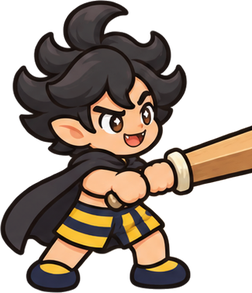
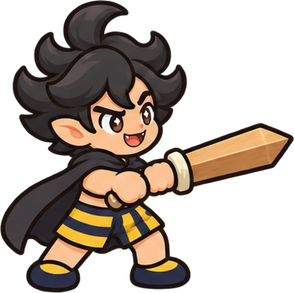
도깨비 대모험: 휘두르기 그림 칼끝 잘림 고침 (#213)
* 도깨비 대모험 1차: 마을 + 들판·대나무 숲, 클릭 사냥·강화·상점·이어하기 코드

Claude-Session: https://claude.ai/code/session_01TJDp5Xqu6Miqaqp15v7rcr

* 대모험: 마을·들판·대나무 숲을 이어진 넓은 세계로, 미니맵·지역마다 길 안내 도사·마을 문 포인트

Claude-Session: https://claude.ai/code/session_01TJDp5Xqu6Miqaqp15v7rcr

* 대모험: 도깨비섬 (가운데 마을, 둘레 들판·논밭·대나무 숲·깊은 대숲, 뿔 곶, 바닷가, 개울·다리·선착장), 땅 조각 그리기, 새 미니맵

Claude-Session: https://claude.ai/code/session_01TJDp5Xqu6Miqaqp15v7rcr

* 대모험: 떨어진 물건 자동 줍기, 다리·징검다리·선착장·배·바위 그림의 물 지우고 개울·바다에 맞추기

Claude-Session: https://claude.ai/code/session_01TJDp5Xqu6Miqaqp15v7rcr

* 대모험: 깨비샘이 360도 어느 방향으로든 곧게 걸어요 (칸 길찾기를 곧은 선으로 펴기)

Claude-Session: https://claude.ai/code/session_01TJDp5Xqu6Miqaqp15v7rcr

* 대모험: 검 든 깨비샘 새 그림(무기 덧그리기 없앰), 무기는 깨비샘의 검 하나만, 몬스터도 360도로 걷기

Claude-Session: https://claude.ai/code/session_01TJDp5Xqu6Miqaqp15v7rcr

* 대모험: 걷기 4박자(왼발·모으기·오른발·모으기)와 통통 튀는 걸음

Claude-Session: https://claude.ai/code/session_01TJDp5Xqu6Miqaqp15v7rcr

* 대모험: 걷기 6장 그림으로 부드러운 걸음

Claude-Session: https://claude.ai/code/session_01TJDp5Xqu6Miqaqp15v7rcr

* 대모험: 배경음 5곡, 지역마다 바뀌고 우두머리 근처에선 전투 음악

Claude-Session: https://claude.ai/code/session_01TJDp5Xqu6Miqaqp15v7rcr

* 대모험: 캐릭터·몬스터·NPC 절반 크기, 걸음 조금 느리게

Claude-Session: https://claude.ai/code/session_01TJDp5Xqu6Miqaqp15v7rcr

* 대모험: 장식물 그림 40장 검은 외곽선을 주변 색으로 바꿔 땅과 어울리게

Claude-Session: https://claude.ai/code/session_01TJDp5Xqu6Miqaqp15v7rcr

* 대모험: 싸울 때 서로 가까이 붙어 보이게

Claude-Session: https://claude.ai/code/session_01TJDp5Xqu6Miqaqp15v7rcr

* 대모험: 땅 무늬를 작은 캐릭터에 맞게 촘촘하게
[…]

diff --git a/rpg/game.js b/rpg/game.js
@@ -16,7 +16,7 @@ const IMG_LIST = ['t-board', 't-forge', 'npc-smith', 'i-return', 'i-teleport', '
   ...Object.keys(WEAPONS).map(k => 'w-' + k), ...Object.keys(ARMORS).map(k => 'a-' + k), ...Object.keys(ACCS).map(k => 'c-' + k),
   'i-potion', 'i-haste', 'i-wscroll', 'i-ascroll', 'i-coin', 'i-coins', 'i-box', ...Object.keys(PROPS)];
 function loadImages() {
-  const jobs = IMG_LIST.map(n => new Promise(res => { const im = new Image(); im.onload = () => { IMG[n] = im; res(); }; im.onerror = res; im.src = 'img/' + n + '.png?v=2'; }));
+  const jobs = IMG_LIST.map(n => new Promise(res => { const im = new Image(); im.onload = () => { IMG[n] = im; res(); }; im.onerror = res; im.src = 'img/' + n + '.png?v=3'; }));
   ['tile-town', 'tile-field', 'tile-bamboo', 'tile-sand', 'tile-paddy', 'tile-deep', 'tile-marsh', 'tile-rock', 'tile-sea', 'world-map'].forEach(n => jobs.push(new Promise(res => { const im = new Image(); im.onload = () => { IMG[n] = im; res(); }; im.onerror = res; im.src = 'img/' + n + '.jpg?v=2'; })));
   return Promise.all(jobs);
 }
@@ -1569,7 +1569,7 @@ function resize() {
 }
 const PSCALE = 92 / 300 * UK;   // 깨비샘 그림 크기
 // 프레임마다 몸 가운데 위치(그림 너비 비율): 검이 한쪽으로 뻗어도 몸이 흔들리지 않게
-const PANCHOR = { 'p-walk-0': .408, 'p-walk-1': .411, 'p-walk-2': .422, 'p-walk-3': .409, 'p-walk-4': .424, 'p-walk-5': .396, 'p-idle': .407, 'p-walk1': .534, 'p-walk2': .539, 'p-wind': .654, 'p-swing': .355, 'p-hurt': .531, 'p-dead': .494, 'p-win': .548,
+const PANCHOR = { 'p-walk-0': .408, 'p-walk-1': .411, 'p-walk-2': .422, 'p-walk-3': .409, 'p-walk-4': .424, 'p-walk-5': .396, 'p-idle': .407, 'p-walk1': .534, 'p-walk2': .539, 'p-wind': .669, 'p-swing': .304, 'p-hurt': .438, 'p-dead': .494, 'p-win': .548,
   'a-walk-0': .479, 'a-walk-1': .489, 'a-walk-2': .494, 'a-walk-3': .477, 'a-walk-4': .472, 'a-walk-5': .482, 'a-idle': .49, 'a-walk1': .485, 'a-walk2': .484, 'a-wind': .407, 'a-swing': .451, 'a-hurt': .506, 'a-dead': .442, 'a-win': .493 };
 function drawSprite(name, x, y, h, flip, opts = {}) {
   let im = IMG[name]; if (!im) return;
